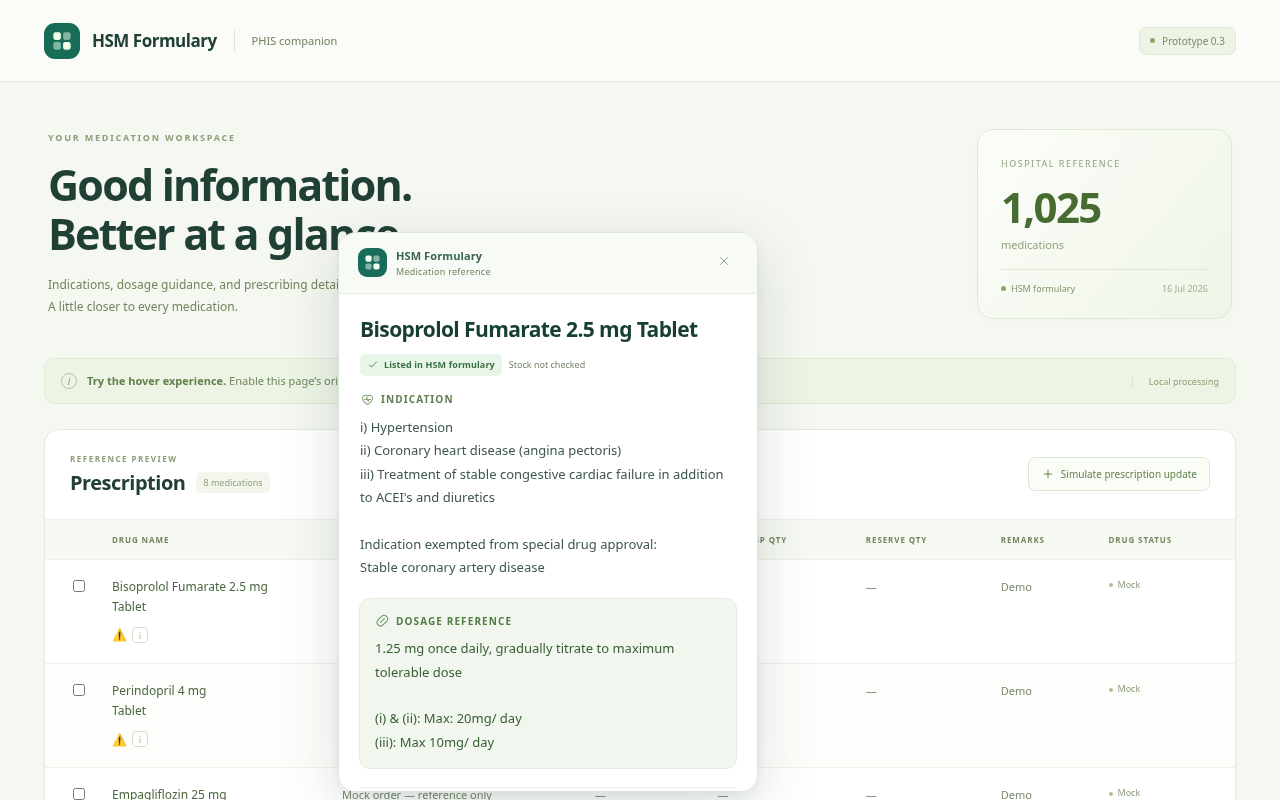
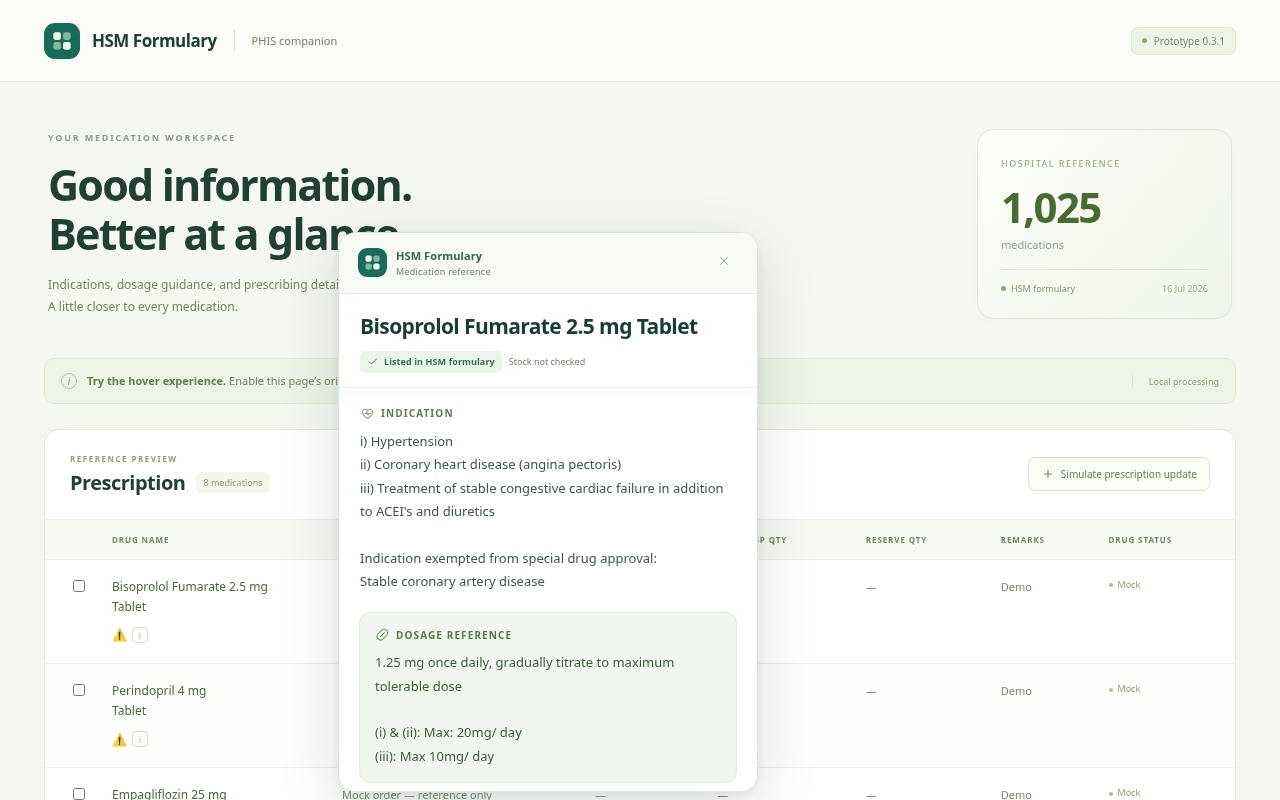
Keep medication name and match status visible while scrolling

Changed region(s): [[0.2812, 0.375, 0.5625, 0.9688], [0.9062, 0.0312, 0.9375, 0.0625]]

diff --git a/extension/content.js b/extension/content.js
@@ -27,12 +27,13 @@
     *{box-sizing:border-box}svg{width:17px;height:17px;flex-shrink:0}
     .panel{pointer-events:auto;font:13px/1.65 "Segoe UI",system-ui,-apple-system,sans-serif;color:#254840;background:#fff;border:1px solid #dbe6db;border-radius:18px;box-shadow:0 18px 60px #173b3026,0 4px 12px #173b3010;overflow:auto;overscroll-behavior:contain;width:420px;max-width:calc(100vw - 16px);scrollbar-width:thin;scrollbar-color:#c7d8ca transparent}
     .panel[hidden]{display:none}
-    .topbar{position:sticky;top:0;z-index:1;display:flex;align-items:center;gap:9px;padding:14px 19px;background:#f8faf5;border-bottom:1px solid #e8eee3}
+    .sticky-header{position:sticky;top:0;z-index:1;background:#fff;box-shadow:0 3px 8px #173b3007}
+    .topbar{display:flex;align-items:center;gap:9px;padding:14px 19px;background:#f8faf5;border-bottom:1px solid #e8eee3}
     .mark{display:grid;place-items:center;width:29px;height:29px;border-radius:9px;background:#186c59;color:#edffef}.mark svg{width:21px;height:21px}
     .topbar strong{display:block;font-size:11px;font-weight:650;letter-spacing:.1px;color:#37654e}.topbar small{display:block;font-size:9px;line-height:1.5;color:#708462;letter-spacing:.25px}
     .close{display:grid;place-items:center;margin-left:auto;align-self:flex-start;width:28px;height:28px;border:0;border-radius:8px;background:transparent;color:#8ba089;cursor:pointer}.close:hover{background:#eaf0e4;color:#335f45}.close svg{width:14px;height:14px}button:focus-visible,summary:focus-visible{outline:3px solid #7db69e;outline-offset:2px}
-    .panel-body{padding:21px 21px 10px}.medication-title{font-size:21px;line-height:1.35;letter-spacing:-.6px;font-weight:650;color:#173e33;margin:0 0 11px;overflow-wrap:anywhere}
-    .badges{display:flex;gap:7px;align-items:center;flex-wrap:wrap;margin:0 0 15px}.badge{display:inline-flex;gap:5px;align-items:center;font-size:9px;font-weight:650;line-height:1.6;padding:4px 7px;border-radius:5px;background:#eaf5ea;color:#387045;letter-spacing:.1px}.badge svg{width:12px;height:12px}.badge.amber{background:#fff2d8;color:#9b6b19}.stock-note{font-size:9px;color:#77866c}
+    .title-block{padding:18px 21px 14px;border-bottom:1px solid #edf1e8}.panel-body{padding:17px 21px 10px}.medication-title{font-size:21px;line-height:1.35;letter-spacing:-.6px;font-weight:650;color:#173e33;margin:0 0 11px;overflow-wrap:anywhere}
+    .badges{display:flex;gap:7px;align-items:center;flex-wrap:wrap;margin:0}.badge{display:inline-flex;gap:5px;align-items:center;font-size:9px;font-weight:650;line-height:1.6;padding:4px 7px;border-radius:5px;background:#eaf5ea;color:#387045;letter-spacing:.1px}.badge svg{width:12px;height:12px}.badge.amber{background:#fff2d8;color:#9b6b19}.stock-note{font-size:9px;color:#77866c}
     .brand-line{display:flex;gap:7px;align-items:baseline;padding-bottom:16px;margin-bottom:17px;border-bottom:1px solid #edf1e8}.brand-line span{font-size:9px;color:#97a28b;text-transform:uppercase;letter-spacing:1px;font-weight:600}.brand-line strong{font-size:12px;color:#657b56;font-weight:500;overflow-wrap:anywhere}
     .reference-block{margin:0 0 18px}.field-heading{display:flex;align-items:center;gap:6px;font-size:10px;font-weight:700;text-transform:uppercase;letter-spacing:1.1px;color:#607e52;margin:0 0 8px}.field-heading svg{width:15px;height:15px;color:#87a17b}.field-value{font-size:13px;line-height:1.8;margin:0;white-space:pre-wrap;overflow-wrap:anywhere;color:#3f584b}
     .reference-block.dosage{background:#f1f7ee;border:1px solid #e4eedf;border-radius:11px;padding:14px 15px;margin-left:-1px;margin-right:-1px}.dosage .field-heading{color:#4f7d45}.dosage .field-heading svg{color:#6a9861}.dosage .field-value{color:#395f35}
@@ -43,12 +44,13 @@
     @media(prefers-reduced-motion:reduce){*{transition:none!important}}
   </style>
   <section class="panel" hidden role="dialog" aria-label="Hospital formulary reference">
-    <header class="topbar"><span class="mark">${icon('brand')}</span><div><strong>HSM Formulary</strong><small>Medication reference</small></div><button class="close" aria-label="Close">${icon('close')}</button></header>
+    <header class="sticky-header"><div class="topbar"><span class="mark">${icon('brand')}</span><div><strong>HSM Formulary</strong><small>Medication reference</small></div><button class="close" aria-label="Close">${icon('close')}</button></div><div class="title-block"></div></header>
     <div class="panel-body"></div>
     <footer class="panel-footer">${icon('book')}<div><strong class="source-date"></strong><p>Reference guidance; confirm suitability for this patient.<br>Stock availability and interactions are not checked.</p></div></footer>
   </section>`;
   document.documentElement.append(host);
   const panel = shadow.querySelector('section'), body = shadow.querySelector('.panel-body');
+  const titleBlock = shadow.querySelector('.title-block');
   shadow.querySelector('.source-date').textContent = `HSM formulary · Updated ${data.updated}`;
   let timer, activeCell;
   function close() { panel.hidden = true; activeCell = null; }
@@ -121,20 +123,23 @@
     if (activeCell === cell && !panel.hidden) return;
     activeCell = cell;
     body.replaceChildren();
+    titleBlock.replaceChildren();
     const title = document.createElement('h3');
     title.className = 'medication-title';
-    title.textContent = result.kind === 'candidate' ? 'Possible reference — confirm product' :
-      result.records.length > 1 ? 'Multiple formulary matches' : result.records[0].name;
-    body.append(title);
+    title.textContent = result.kind === 'candidate' || result.records.length > 1
+      ? extractText(cell).trim().replace(/\s+/g, ' ') : result.records[0].name;
+    titleBlock.append(title);
     const badges = document.createElement('div'); badges.className = 'badges';
-    const badge = document.createElement('span'); badge.className = 'badge' + (result.kind === 'candidate' ? ' amber' : '');
-    badge.innerHTML = icon(result.kind === 'candidate' ? 'warning' : 'check');
-    const badgeText = document.createElement('span'); badgeText.textContent = result.kind === 'candidate' ? 'Confirm product and route' : 'Listed in HSM formulary';
+    const needsConfirmation = result.kind === 'candidate' || result.records.length > 1;
+    const badge = document.createElement('span'); badge.className = 'badge' + (needsConfirmation ? ' amber' : '');
+    badge.innerHTML = icon(needsConfirmation ? 'warning' : 'check');
+    const badgeText = document.createElement('span'); badgeText.textContent = result.kind === 'candidate' ? 'Possible reference — confirm product' :
+      result.records.length > 1 ? 'Multiple formulary matches' : 'Listed in HSM formulary';
     badge.append(badgeText); badges.append(badge);
     if (result.kind !== 'candidate') {
       const note = document.createElement('span'); note.className = 'stock-note'; note.textContent = 'Stock not checked'; badges.append(note);
     }
-    body.append(badges);
+    titleBlock.append(badges);
     if (result.kind === 'candidate') field('Confirmation required', result.reason, {tone: 'warning', symbol: 'warning'});
     if (result.records.length > 1) field('Choose the correct product', 'This label matches multiple records. Confirm the strength and formulation.', {tone: 'warning', symbol: 'warning'});
     for (const record of result.records) {
@@ -163,6 +168,7 @@
       }
     }
     panel.hidden = false;
+    panel.scrollTop = 0;
     place(cell);
   }
 

diff --git a/demo/index.html b/demo/index.html
@@ -7,7 +7,7 @@
   <link rel="stylesheet" href="demo.css">
 </head>
 <body>
-  <header class="navigation"><a class="wordmark" href="index.html"><span class="logo" aria-hidden="true"><svg viewBox="0 0 24 24" fill="currentColor"><rect x="4" y="4" width="7" height="7" rx="2"/><rect x="13" y="4" width="7" height="7" rx="2" opacity=".5"/><rect x="4" y="13" width="7" height="7" rx="2" opacity=".5"/><rect x="13" y="13" width="7" height="7" rx="2"/></svg></span><strong>HSM Formulary</strong><span class="nav-divider"></span><span class="workspace-label">PHIS companion</span></a><span class="prototype-badge"><span></span>Prototype 0.3</span></header>
+  <header class="navigation"><a class="wordmark" href="index.html"><span class="logo" aria-hidden="true"><svg viewBox="0 0 24 24" fill="currentColor"><rect x="4" y="4" width="7" height="7" rx="2"/><rect x="13" y="4" width="7" height="7" rx="2" opacity=".5"/><rect x="4" y="13" width="7" height="7" rx="2" opacity=".5"/><rect x="13" y="13" width="7" height="7" rx="2"/></svg></span><strong>HSM Formulary</strong><span class="nav-divider"></span><span class="workspace-label">PHIS companion</span></a><span class="prototype-badge"><span></span>Prototype 0.3.1</span></header>
   <main>
     <section class="welcome"><div><span class="eyebrow">YOUR MEDICATION WORKSPACE</span><h1>Good information.<br>Better at a glance.</h1><p>Indications, dosage guidance, and prescribing details.<br>A little closer to every medication.</p></div><div class="reference-card"><span class="reference-label">HOSPITAL REFERENCE</span><strong>1,025<span>medications</span></strong><div class="reference-meta"><span class="live-dot"></span> HSM formulary<span class="meta-date">16 Jul 2026</span></div></div></section>
     <aside class="connection-note"><span class="note-icon" aria-hidden="true">i</span><p><strong>Try the hover experience.</strong> Enable this page’s origin in the extension, refresh, then hover or focus a medication below.</p><span class="local-tag">Local processing</span></aside>
@@ -21,7 +21,7 @@
       </div>
       <div class="table-footer"><span class="live-dot"></span>Demonstration only<span>Fictional orders · No patient information</span></div>
     </section>
-    <footer class="page-footer"><p>Medication labels from the supplied PHIS screenshot. The Glyceryl Trinitrate reference requires route confirmation.</p><span>HSM Formulary · 0.3.0</span></footer>
+    <footer class="page-footer"><p>Medication labels from the supplied PHIS screenshot. The Glyceryl Trinitrate reference requires route confirmation.</p><span>HSM Formulary · 0.3.1</span></footer>
   </main>
   <script src="demo.js"></script>
 </body>

diff --git a/extension/settings.html b/extension/settings.html
@@ -13,7 +13,7 @@
         <span class="brand-mark" aria-hidden="true"><svg viewBox="0 0 24 24" fill="none"><rect x="4" y="4" width="7" height="7" rx="2" fill="currentColor"/><rect x="13" y="4" width="7" height="7" rx="2" fill="currentColor" opacity=".5"/><rect x="4" y="13" width="7" height="7" rx="2" fill="currentColor" opacity=".5"/><rect x="13" y="13" width="7" height="7" rx="2" fill="currentColor"/></svg></span>
         <span><span class="eyebrow">PHIS companion</span><strong>HSM Formulary</strong></span>
       </a>
-      <span class="version" id="version">v0.3.0</span>
+      <span class="version" id="version">v0.3.1</span>
     </header>
 
     <main>

diff --git a/README.md b/README.md
@@ -2,7 +2,9 @@
 
 Edge/Chrome Manifest V3 prototype. Bundles 1,025 entries from the supplied HSM CSV, recorded update date 16/07/2026. All reference processing and CSV imports stay in the browser. No analytics or remote clinical requests.
 
-## Version 0.3.0
+## Version 0.3.1
+
+The medication name, match status, and close button stay visible while you scroll the reference. Opening a different medication starts at the top of its information.
 
 A refreshed interface for the extension and demo: soft green and teal colours, a matching toolbar icon, clearer typography, and responsive settings cards. The medication popup separates indications, dosage guidance, and restrictions, with administrative information under **Prescribing details**. Product/route confirmation remains prominent for uncertain matches. Fonts and icons are bundled or supplied by the system; the interface does not load remote assets.
 
@@ -13,6 +15,8 @@ Settings now show the active source, formatted update date, medication count, co
 These screenshots use synthetic demo orders and simulated extension API bindings. They show the actual extension HTML/CSS.
 
 ![Medication reference popup](docs/previews/medication-popup.png)
+
+[Preview the popup scrolled to the bottom, with its medication title still visible](docs/previews/medication-popup-scrolled.png)
 
 <img src="docs/previews/settings.png" alt="Modern HSM Formulary settings with site registration and CSV import" width="360">
 
@@ -55,4 +59,4 @@ Formulary listing does not indicate stock. Dosage is source reference text, not 
 
 ## Updating an unpacked installation
 
-Download the latest GitHub ZIP and extract it to a stable folder. Replace the files in the extension folder you previously loaded, then open `edge://extensions` and choose **Reload** on HSM PHIS Formulary. Check that version **0.3.0** is shown, then reload your PHIS tab. Keeping the same loaded folder preserves the extension identity and local settings. If you instead load a different folder as a new extension, disable/remove the previous copy and register your PHIS address again.
+Download the latest GitHub ZIP and extract it to a stable folder. Replace the files in the extension folder you previously loaded, then open `edge://extensions` and choose **Reload** on HSM PHIS Formulary. Check that version **0.3.1** is shown, then reload your PHIS tab. Keeping the same loaded folder preserves the extension identity and local settings. If you instead load a different folder as a new extension, disable/remove the previous copy and register your PHIS address again.
